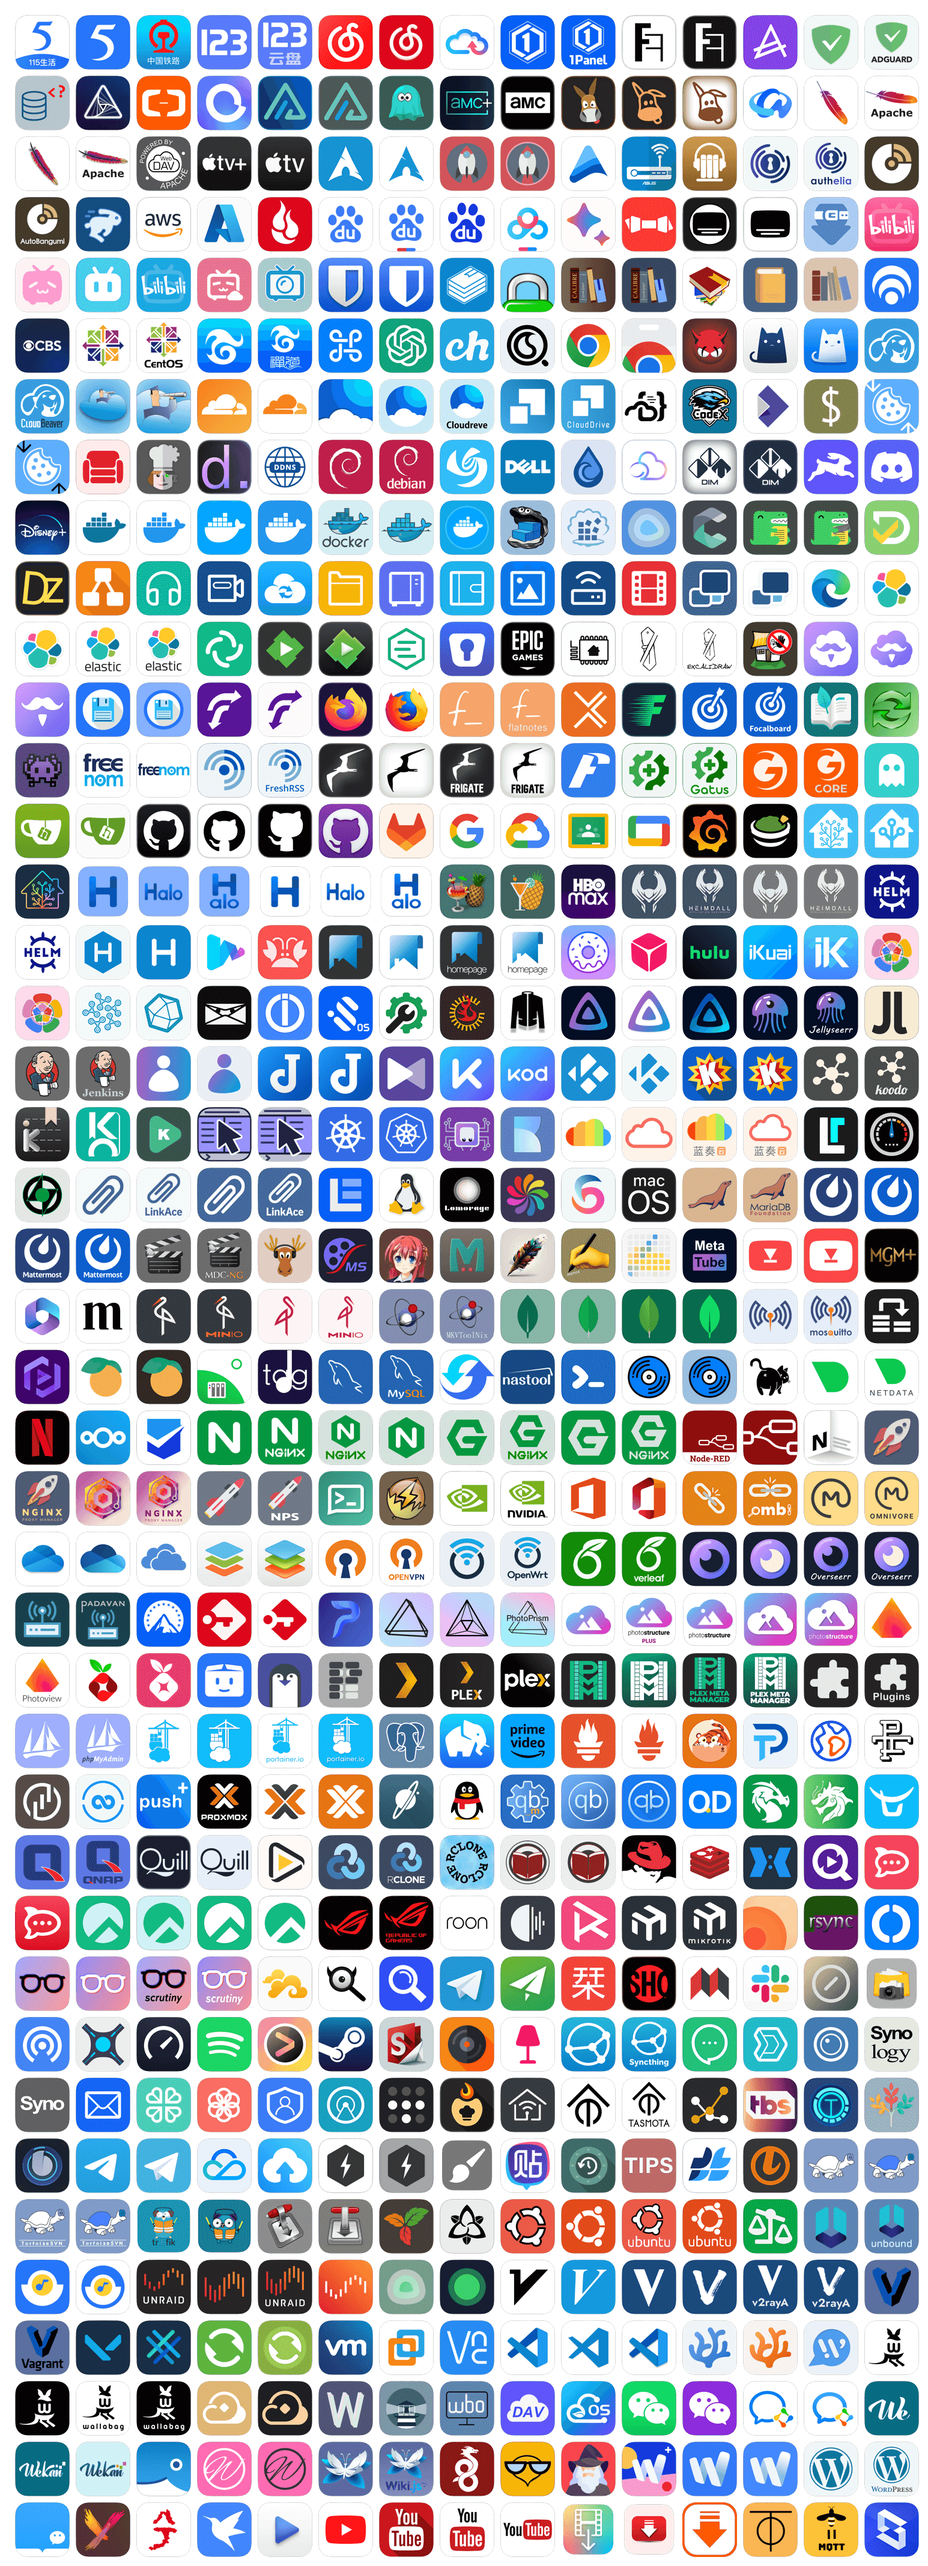
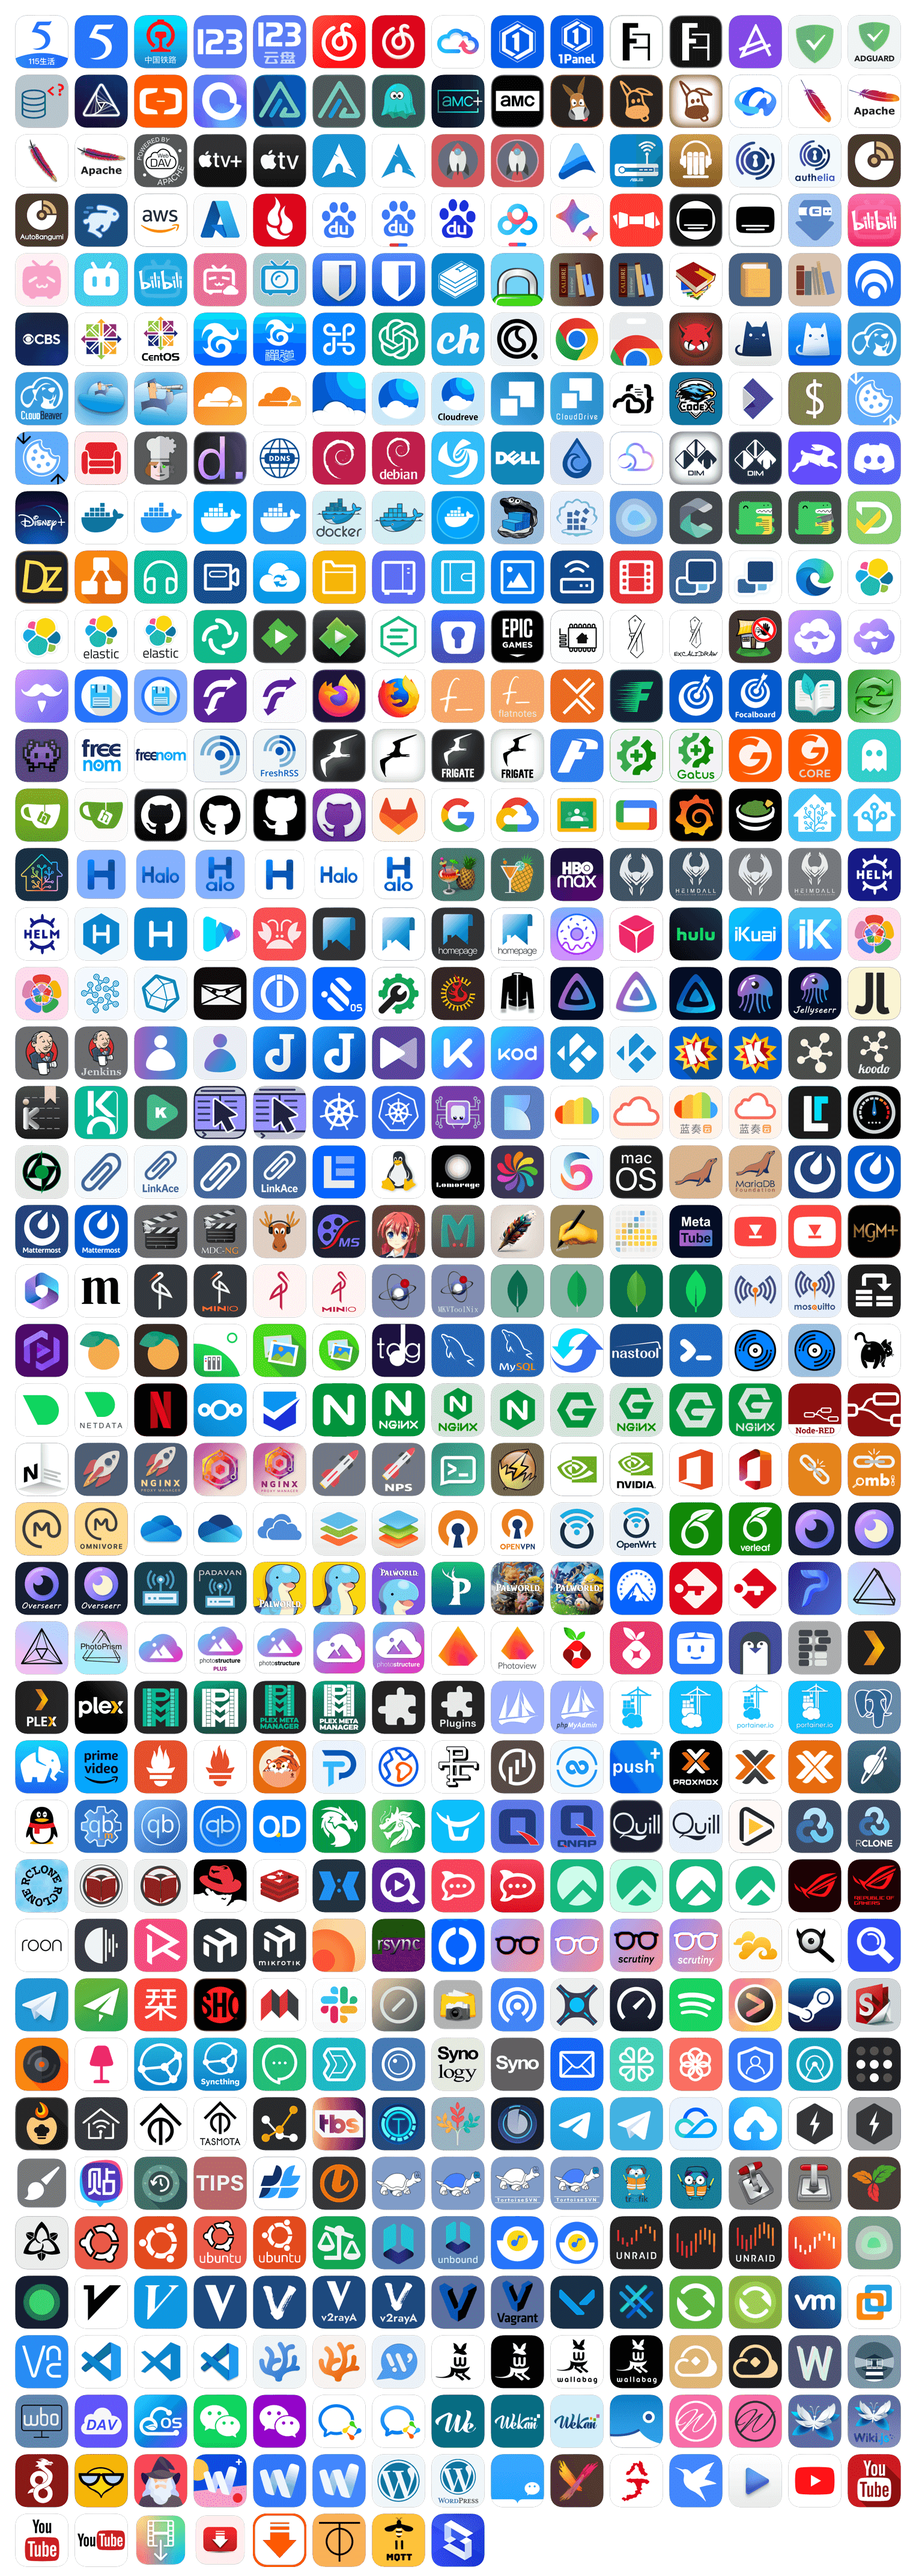
Add PalWorld（幻兽帕鲁）、MT-Photos（新版）

diff --git a/README.md b/README.md
@@ -71,7 +71,7 @@
 
 - 例如，图标文件在 `/mnt/user/appdata/icons` 下，则图标地址填写 `/mnt/user/appdata/icons/xxxxx.png` 或者 `http://127.0.0.1/mnt/user/appdata/icons/xxxxx.png`，将 xxxxx 换成对应的图标名称即可，<a href="#圆角矩形图标"><strong>图标名称预览在此 »</strong></a>
 
-# 图标预览（当前共计 840 个）
+# 图标预览（当前共计 848 个）
 ## 圆角矩形图标
 <!-- START BORDER-RADIUS ICONS -->
 <img src="https://github.com/xushier/HD-Icons/blob/main/_icons-radius.png?raw=true" alt="radius">
